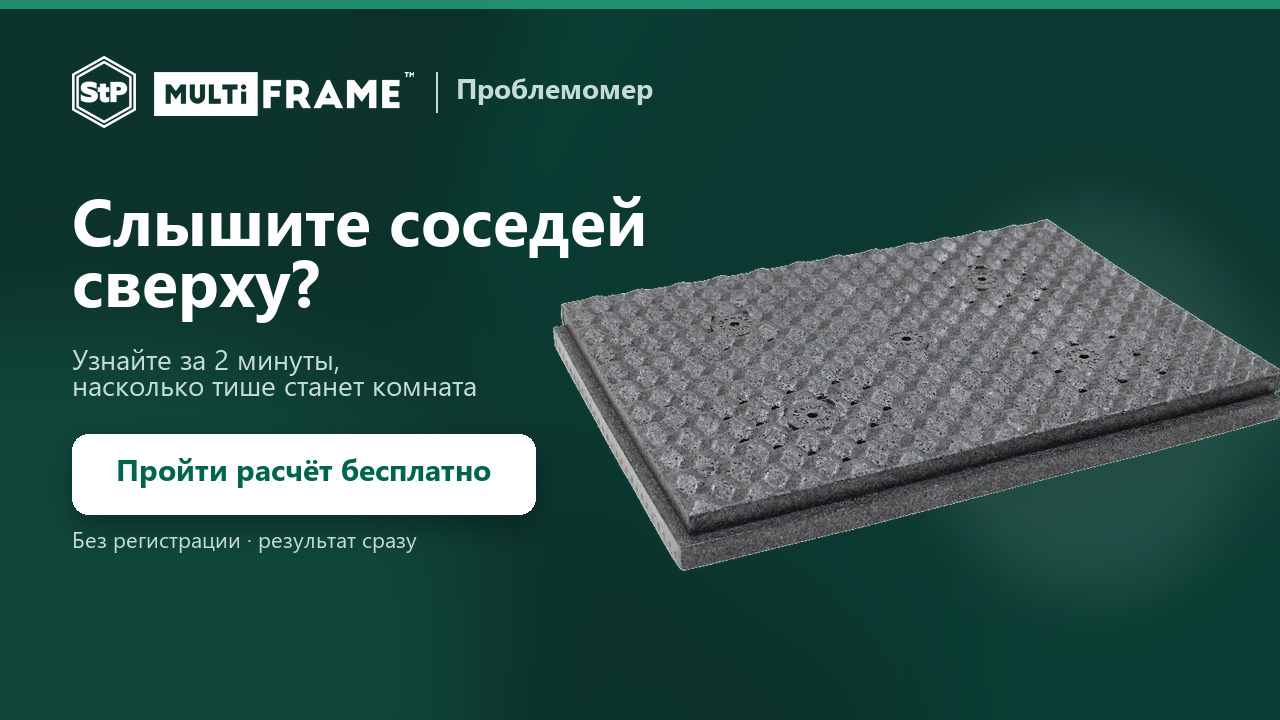
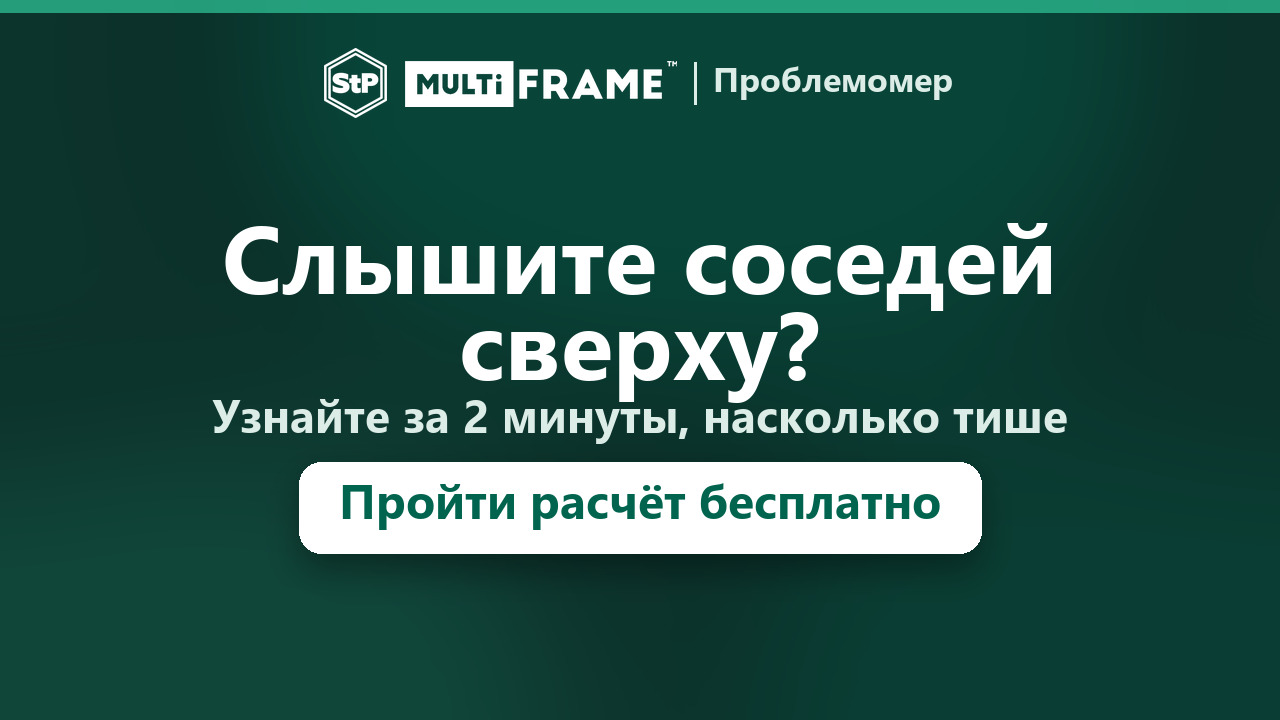
Укрупнить типографику OG-превью для читаемости в мессенджерах.

diff --git a/index.html b/index.html
@@ -21,7 +21,7 @@
     <meta property="og:url" content="https://paulos99.github.io/multiframe-problemomer/" />
     <meta
       property="og:image"
-      content="https://paulos99.github.io/multiframe-problemomer/og-share.jpg?v=3"
+      content="https://paulos99.github.io/multiframe-problemomer/og-share.jpg?v=5"
     />
     <meta property="og:image:type" content="image/jpeg" />
     <meta property="og:image:width" content="1280" />
@@ -36,7 +36,7 @@
     />
     <meta
       name="twitter:image"
-      content="https://paulos99.github.io/multiframe-problemomer/og-share.jpg?v=3"
+      content="https://paulos99.github.io/multiframe-problemomer/og-share.jpg?v=5"
     />
   </head>
   <body>

diff --git a/scripts/render-og.py b/scripts/render-og.py
@@ -1,13 +1,13 @@
-"""Render public/og-share.jpg — full-bleed brand card for messengers."""
+"""Render public/og-share.jpg — maximum type size for messenger thumbs."""
 from PIL import Image, ImageDraw, ImageFilter, ImageFont
 
 W, H = 1280, 720
 
-BG_DEEP = (12, 51, 44)  # #0c332c
-BG_MID = (1, 100, 79)  # #01644f
+BG_DEEP = (12, 51, 44)
+BG_MID = (1, 100, 79)
 BG_LIGHT = (42, 179, 139)
 INK = (255, 255, 255)
-MUTED = (196, 220, 212)
+MUTED = (220, 236, 230)
 BTN_BG = (255, 255, 255)
 BTN_TEXT = (1, 100, 79)
 
@@ -39,108 +39,83 @@ def draw_text(draw: ImageDraw.ImageDraw, text: str, xy: tuple[int, int], font, f
     return text_size(font, text)
 
 
+def draw_centered(draw, text, y, font, fill) -> int:
+    tw, th = text_size(font, text)
+    box = font.getbbox(text)
+    x = (W - tw) // 2 - box[0]
+    draw.text((x, y), text, font=font, fill=fill)
+    return th
+
+
 base = Image.new("RGBA", (W, H), (*BG_DEEP, 255))
 grad = Image.new("RGBA", (W, H), (0, 0, 0, 0))
 gdraw = ImageDraw.Draw(grad)
-for i, alpha in enumerate((90, 70, 48, 28)):
-    gdraw.ellipse(
-        (420 + i * 40, -180 + i * 20, 1480 + i * 30, 620 + i * 40),
-        fill=(*BG_MID, alpha),
-    )
-gdraw.ellipse((-320, 280, 520, 980), fill=(*BG_LIGHT, 36))
-gdraw.ellipse((900, 420, 1600, 980), fill=(*BG_MID, 50))
-base.alpha_composite(grad.filter(ImageFilter.GaussianBlur(64)))
+gdraw.ellipse((200, -260, 1200, 420), fill=(*BG_MID, 90))
+gdraw.ellipse((-200, 400, 600, 1000), fill=(*BG_LIGHT, 38))
+gdraw.ellipse((700, 380, 1500, 980), fill=(*BG_MID, 55))
+base.alpha_composite(grad.filter(ImageFilter.GaussianBlur(80)))
 
 rail = Image.new("RGBA", (W, H), (0, 0, 0, 0))
-ImageDraw.Draw(rail).rectangle((0, 0, W, 8), fill=(*BG_LIGHT, 180))
+ImageDraw.Draw(rail).rectangle((0, 0, W, 12), fill=(*BG_LIGHT, 210))
 base.alpha_composite(rail)
 
 draw = ImageDraw.Draw(base)
 
-# Brand lockup
+# Brand centered row
 stp = trim(recolor(Image.open("public/logo-stp.png"), INK))
 mf = trim(recolor(Image.open("public/logo-multiframe.png"), INK))
-stp_h = 72
+stp_h = 70
 stp = stp.resize((round(stp.width * stp_h / stp.height), stp_h), Image.Resampling.LANCZOS)
-mf_h = 44
+mf_h = 46
 mf = mf.resize((round(mf.width * mf_h / mf.height), mf_h), Image.Resampling.LANCZOS)
-
-left = 72
-top = 56
-base.alpha_composite(stp, (left, top))
-mf_x = left + stp.width + 18
-base.alpha_composite(mf, (mf_x, top + (stp_h - mf_h) // 2 + 2))
-
-brand_font = ImageFont.truetype(FONT, 28)
+brand_font = ImageFont.truetype(FONT, 34)
 brand = "Проблемомер"
 bw, bh = text_size(brand_font, brand)
-div_x = mf_x + mf.width + 22
-draw.line((div_x, top + 16, div_x, top + stp_h - 16), fill=(*MUTED, 160), width=2)
-draw_text(draw, brand, (div_x + 20, top + (stp_h - bh) // 2), brand_font, MUTED)
+gap = 18
+div = 18
+row_w = stp.width + gap + mf.width + div + 2 + div + bw
+row_x = (W - row_w) // 2
+row_y = 48
+base.alpha_composite(stp, (row_x, row_y))
+mf_x = row_x + stp.width + gap
+base.alpha_composite(mf, (mf_x, row_y + (stp_h - mf_h) // 2 + 1))
+div_x = mf_x + mf.width + div
+draw.line((div_x, row_y + 14, div_x, row_y + stp_h - 14), fill=(*MUTED, 170), width=3)
+draw_text(draw, brand, (div_x + div, row_y + (stp_h - bh) // 2), brand_font, MUTED)
 
-# Panel on the right — smaller, further right, no text collision
-panel = Image.open("public/images/multiframe-panel-transparent.png").convert("RGBA")
-ph = 380
-panel = panel.resize((round(panel.width * ph / panel.height), ph), Image.Resampling.LANCZOS)
-glow = Image.new("RGBA", (W, H), (0, 0, 0, 0))
-ImageDraw.Draw(glow).ellipse((900, 180, 1280, 620), fill=(255, 255, 255, 24))
-base.alpha_composite(glow.filter(ImageFilter.GaussianBlur(36)))
-px = W - panel.width + 20  # bleed slightly off right edge
-py = (H - panel.height) // 2 + 36
-base.alpha_composite(panel, (px, py))
+# Massive centered copy
+title_font = ImageFont.truetype(FONT, 96)
+sub_font = ImageFont.truetype(FONT, 46)
+btn_font = ImageFont.truetype(FONT, 48)
 
-# Copy stays in left column (clear of panel)
-title_font = ImageFont.truetype(FONT, 66)
-sub_font = ImageFont.truetype(FONT_REG, 28)
-btn_font = ImageFont.truetype(FONT, 30)
-
-y = 196
-_, th1 = draw_text(draw, "Слышите соседей", (left, y), title_font, INK)
-y += th1 + 2
-_, th2 = draw_text(draw, "сверху?", (left, y), title_font, INK)
-y += th2 + 26
-
-_, sh1 = draw_text(draw, "Узнайте за 2 минуты,", (left, y), sub_font, MUTED)
-y += sh1 + 6
-_, sh2 = draw_text(draw, "насколько тише станет комната", (left, y), sub_font, MUTED)
-y += sh2 + 38
+y = 190
+y += draw_centered(draw, "Слышите соседей", y, title_font, INK) - 2
+y += draw_centered(draw, "сверху?", y, title_font, INK) + 16
+y += draw_centered(draw, "Узнайте за 2 минуты, насколько тише", y, sub_font, MUTED) + 34
 
 label = "Пройти расчёт бесплатно"
 lw, lh = text_size(btn_font, label)
-btn_w = max(lw + 88, 440)
-btn_h = 80
-btn_x = left
+btn_w = lw + 80
+btn_h = lh + 44
+btn_x = (W - btn_w) // 2
 btn_y = y
 
 bshadow = Image.new("RGBA", (W, H), (0, 0, 0, 0))
 ImageDraw.Draw(bshadow).rounded_rectangle(
-    (btn_x, btn_y + 8, btn_x + btn_w, btn_y + btn_h + 14),
-    radius=16,
-    fill=(0, 0, 0, 70),
+    (btn_x, btn_y + 12, btn_x + btn_w, btn_y + btn_h + 18),
+    radius=22,
+    fill=(0, 0, 0, 85),
 )
-base.alpha_composite(bshadow.filter(ImageFilter.GaussianBlur(12)))
+base.alpha_composite(bshadow.filter(ImageFilter.GaussianBlur(16)))
 
 draw = ImageDraw.Draw(base)
-draw.rounded_rectangle(
-    (btn_x, btn_y, btn_x + btn_w, btn_y + btn_h),
-    radius=16,
-    fill=BTN_BG,
-)
+draw.rounded_rectangle((btn_x, btn_y, btn_x + btn_w, btn_y + btn_h), radius=22, fill=BTN_BG)
 lb = btn_font.getbbox(label)
 draw.text(
     (btn_x + (btn_w - lw) // 2 - lb[0], btn_y + (btn_h - lh) // 2 - lb[1] - 1),
     label,
     font=btn_font,
     fill=BTN_TEXT,
-)
-
-trust_font = ImageFont.truetype(FONT_REG, 22)
-draw_text(
-    draw,
-    "Без регистрации · результат сразу",
-    (left, btn_y + btn_h + 18),
-    trust_font,
-    MUTED,
 )
 
 rgb = base.convert("RGB")
